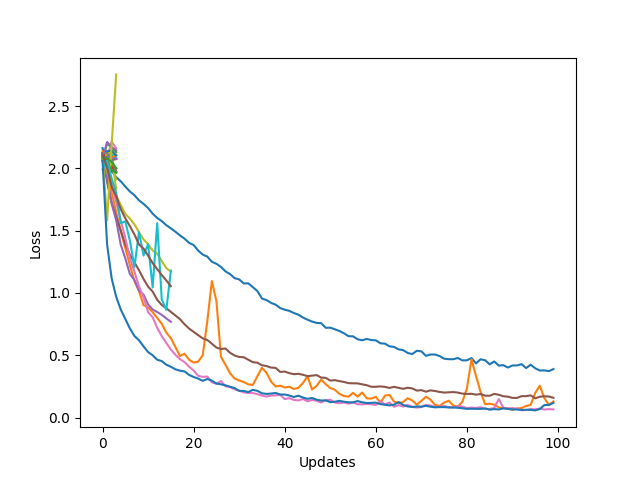
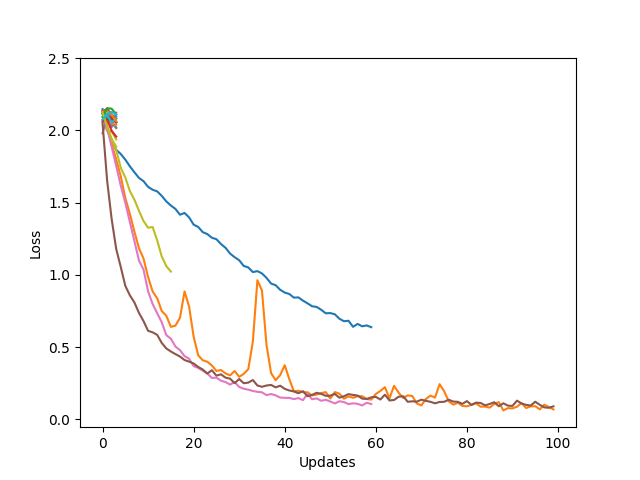
Add early stop to nn + grace

diff --git a/main.py b/main.py
@@ -83,12 +83,13 @@ class NeuralNetwork(torch.nn.Module):
         logits = self.linear_relu_stack(x)
         return logits
 
-    def _train(self, criterion, optimizer, epochs, data: DataLoader):
-        self.train()
+    def _train(self, criterion, optimizer, epochs, train: DataLoader, validation: Dataset):
         loss_updates = []
+        grace = 5  # Used as relaxation condition for early stopping
         for epoch in range(epochs):
+            self.train()
             # Minibatch, we iterate over data passed by data loader for each epoch
-            for batch in data:
+            for batch in train:
                 # We only send the the batches we use to device, in this way we
                 # use less GPU ram
                 x = batch[0].to(self.device)
@@ -100,20 +101,35 @@ class NeuralNetwork(torch.nn.Module):
                 # Backpropagation
                 loss = criterion(y_pred, y)
                 loss_updates.append(loss.item())
-                tune.report(mean_loss=loss.item())
+                tune.report(loss=loss.item())
                 loss.backward()
                 optimizer.step()
-            logger.info("Epoch: " + str(epoch) + " latest avg. loss: " +
+            logger.info("Epoch: " + str(epoch) + " latest loss: " +
                         str(loss_updates[-1]))
+            if self._test(validation, criterion) > loss_updates[-1]:
+                # If the loss on the validation set is bigger we stop
+                # the learning phase
+                if grace > 0:
+                    grace -= 1
+                else:
+                    break
         # Returns the trained neural net and the loss over the training
         return self, loss_updates
 
-    def _test(self, X_val, Y_val):
+    def _test(self, testset: DataLoader, criterion=None):
         # Puts the nn in test mode, no dropout, etc.
         self.eval()
-        y_pred = self.forward(X_val)
-        logger.info(y_pred)
-        y_pred = y_pred.argmax()
+        y_test = None
+        y_pred = None
+        for x, y in testset:
+            y_test = y.to(self.device)
+            y_pred = self.forward(x.to(self.device))
+        if criterion:
+            loss = criterion(y_pred, y_test)
+            logger.info("Loss on the valset: %f." % loss.item())
+            return loss.item()
+        logger.debug(y_pred)
+        # TODO: Add accuracy, etc
 
     def __str__(self) -> str:
         return str({"input_size": self.input_layer_size,
@@ -284,30 +300,32 @@ def train_models():
     def train_nn(config: dict, X_train, y_train):
         train_loader = DataLoader(
             Dataset(X_train, y_train), config['batch_size'], shuffle=True, drop_last=True)
+        val_loader = DataLoader(Dataset(X_val, y_val), X_val.shape[0])
         mlp = NeuralNetwork(X_train.shape[1], config['hidden_layer_size'], y_train.max(
         ).astype(int)+1, config['number_hidden_layers'], config['dropout_prob'])
         logger.info(mlp)
         mlp, loss = mlp._train(torch.nn.CrossEntropyLoss(), torch.optim.SGD(
-            mlp.parameters(), config['learning_rate'], config['momentum']), config['epochs'], train_loader)
+            mlp.parameters(), config['learning_rate'], config['momentum']), config['epochs'], train_loader, val_loader)
         # Local plot (just for this specific training session)
         plt.plot(range(0, len(loss)), loss)
-        plot(["Epochs", "Loss"], "mlp_loss_progr_minib_bnorm_drop")
+        plot(["Updates", "Loss"], "mlp_loss_progr_minib_bnorm_drop")
 
     results = tune.run(tune.with_parameters(train_nn, X_train=X_train, y_train=y_train), config=configs,
-                       local_dir=os.path.realpath("."), verbose=verbose, scheduler=ASHAScheduler(metric="mean_loss", mode="min"),
+                       local_dir=os.path.realpath("."), verbose=verbose, scheduler=ASHAScheduler(metric="loss", mode="min"),
                        num_samples=50, resources_per_trial=tune_res)
     # Global plot of the scheduled jobs of ray tune
     draw = None
     for df in results.trial_dataframes.values():
-        draw = df.mean_loss.plot(ax=draw)
+        draw = df.loss.plot(ax=draw)
     plot(['Updates', 'Loss'], 'early_stopping_ASHAScheduler')
-    # Just for manual test purposes
-    '''train_nn(config={"hidden_layer_size": 6, "number_hidden_layers": 4,
-                     "learning_rate": 0.01, "momentum": 0.09, "batch_size": 2048,
-                     "epochs": 200, "dropout_prob": 0.05})'''
     logger.info("Best config nn is: " +
-                str(results.get_best_config(metric="mean_loss", mode="min")))
-    #btm['neural_net'] = results.get_best_checkpoint()
+                str(results.get_best_config(metric="loss", mode="min")))
+    # btm['neural_net'] = results.get_best_checkpoint()
+
+    '''# Just for manual test purposes
+    train_nn({"hidden_layer_size": 6, "number_hidden_layers": 4,
+              "learning_rate": 0.01, "momentum": 0.09, "batch_size": 2048,
+              "epochs": 200, "dropout_prob": 0.05}, X_train, y_train)'''
     return btm
 
 
